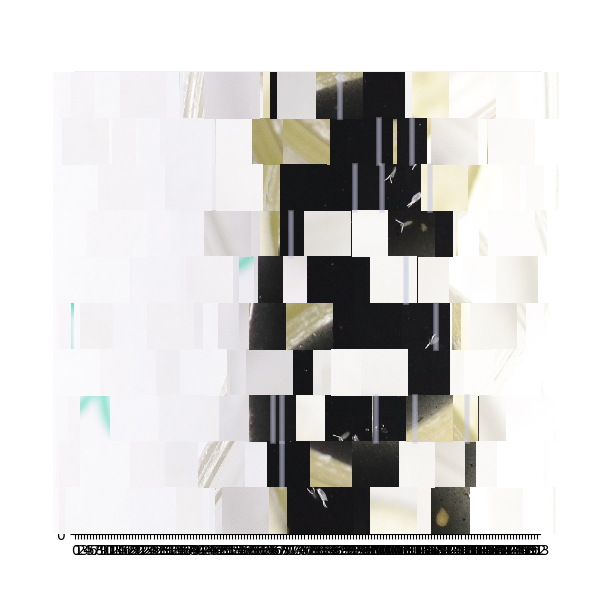
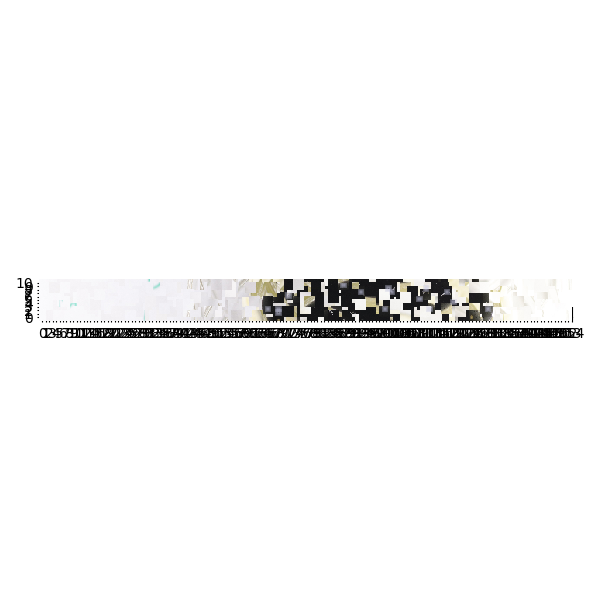
cooked imgs

diff --git a/2.Testing/Reconstruction/big_visual.py b/2.Testing/Reconstruction/big_visual.py
@@ -15,33 +15,33 @@ def generate_vis(df_new, images_i_want, ROOT_IMG, model_name):
         print('Max Tile Egg Cnt:', max_eggs)
         # colors = ['purple', 'violet', 'plum', 'thistle', 'mediumorchid', 'darkviolet', 'darkorchid', 'indigo']
         fig, ax = plt.subplots(figsize=(6, 6))
-        tiles_cnt = 0
-        for index, row in df_new.iterrows():
-            # if tiles_cnt == 100:
-            #     break
-            if row['FileName'] == img_wanted:
-                tiles_cnt += 1
-                full_path = os.path.join(ROOT_IMG, row['ImageName'])
-                img = mpimg.imread(full_path)
-                x_coord = row['x']+0.5
-                y_coord = 10-row['y']-0.5
-                imagebox = OffsetImage(img, zoom=0.45)
-                ab = AnnotationBbox(imagebox, (x_coord, y_coord), frameon=False)
+        df_img = df_new[df_new['FileName'] == img_wanted]
+        for index, row in df_img.iterrows():
+            full_path = os.path.join(ROOT_IMG, row['ImageName'])
+            img = mpimg.imread(full_path)
+            x_coord = int(row['x'])+0.5
+            y_coord = 9-int(row['y'])+0.5
+            imagebox = OffsetImage(img, zoom=0.02)
+            ab = AnnotationBbox(imagebox, (x_coord, y_coord), frameon=False)
 
-                if (int(row['EggCount']) > 0):
-                    egg_count = int(row['EggCount'])
-                    t = egg_count/max_eggs
-                    t = 0.3 + 0.7 * t
-                    color = cmap(t)
-                    rect = patches.Rectangle((x_coord-0.5, y_coord+0.5-1), 
-                                             1, 1, linewidth=2, edgecolor=color, 
-                                             facecolor=color, alpha=0.4)
-                    ax.add_patch(rect)
-                    rect.set_zorder(4)
-                ax.add_artist(ab)
-                ax.set_xlim(0, 154) 
-                ax.set_ylim(0, 10)
-                plt.xticks(np.arange(0, 154, step=1))
-                plt.yticks(np.arange(0, 10, step=1))
-                plt.plot()
+            if (int(row['EggCount']) > 0):
+                egg_count = int(row['EggCount'])
+                t = egg_count/max_eggs
+                t = 0.3 + 0.7 * t
+                color = cmap(t)
+                rect = patches.Rectangle((x_coord-0.5, y_coord+0.5-1), 
+                                            1, 1, linewidth=2, edgecolor=color, 
+                                            facecolor=color, alpha=0.4)
+                ax.add_patch(rect)
+                rect.set_zorder(4)
+            ax.add_artist(ab)
+            ax.set_xlim(0, 154) 
+            ax.set_ylim(0, 10)
+            ax.set_aspect('equal', adjustable='box')
+            plt.xticks(np.arange(0, 155, step=1))
+            plt.yticks(np.arange(0, 11, step=1))
+            ax.grid(True, which='both')
+            # ax.invert_yaxis()
+            plt.tight_layout()
+            plt.plot()
         plt.savefig(f"{model_name}_CD{img_wanted}_plot.png")
